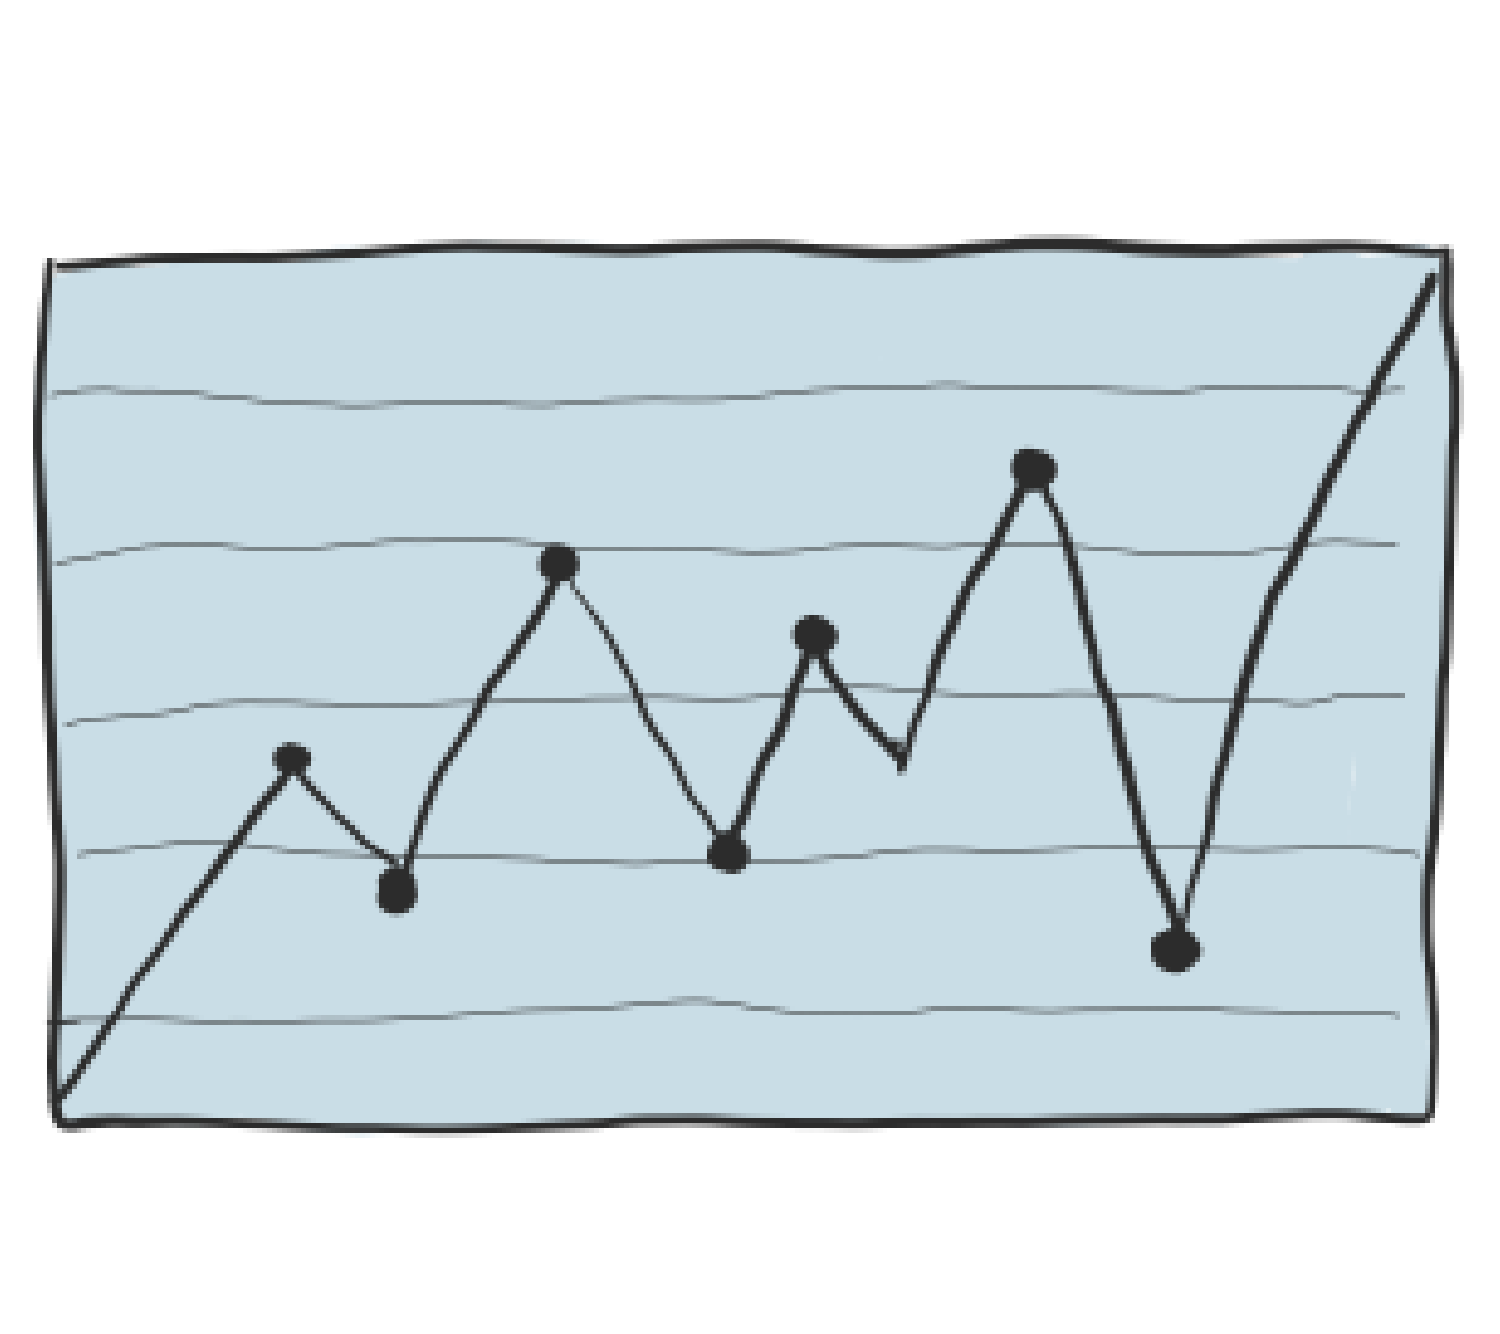
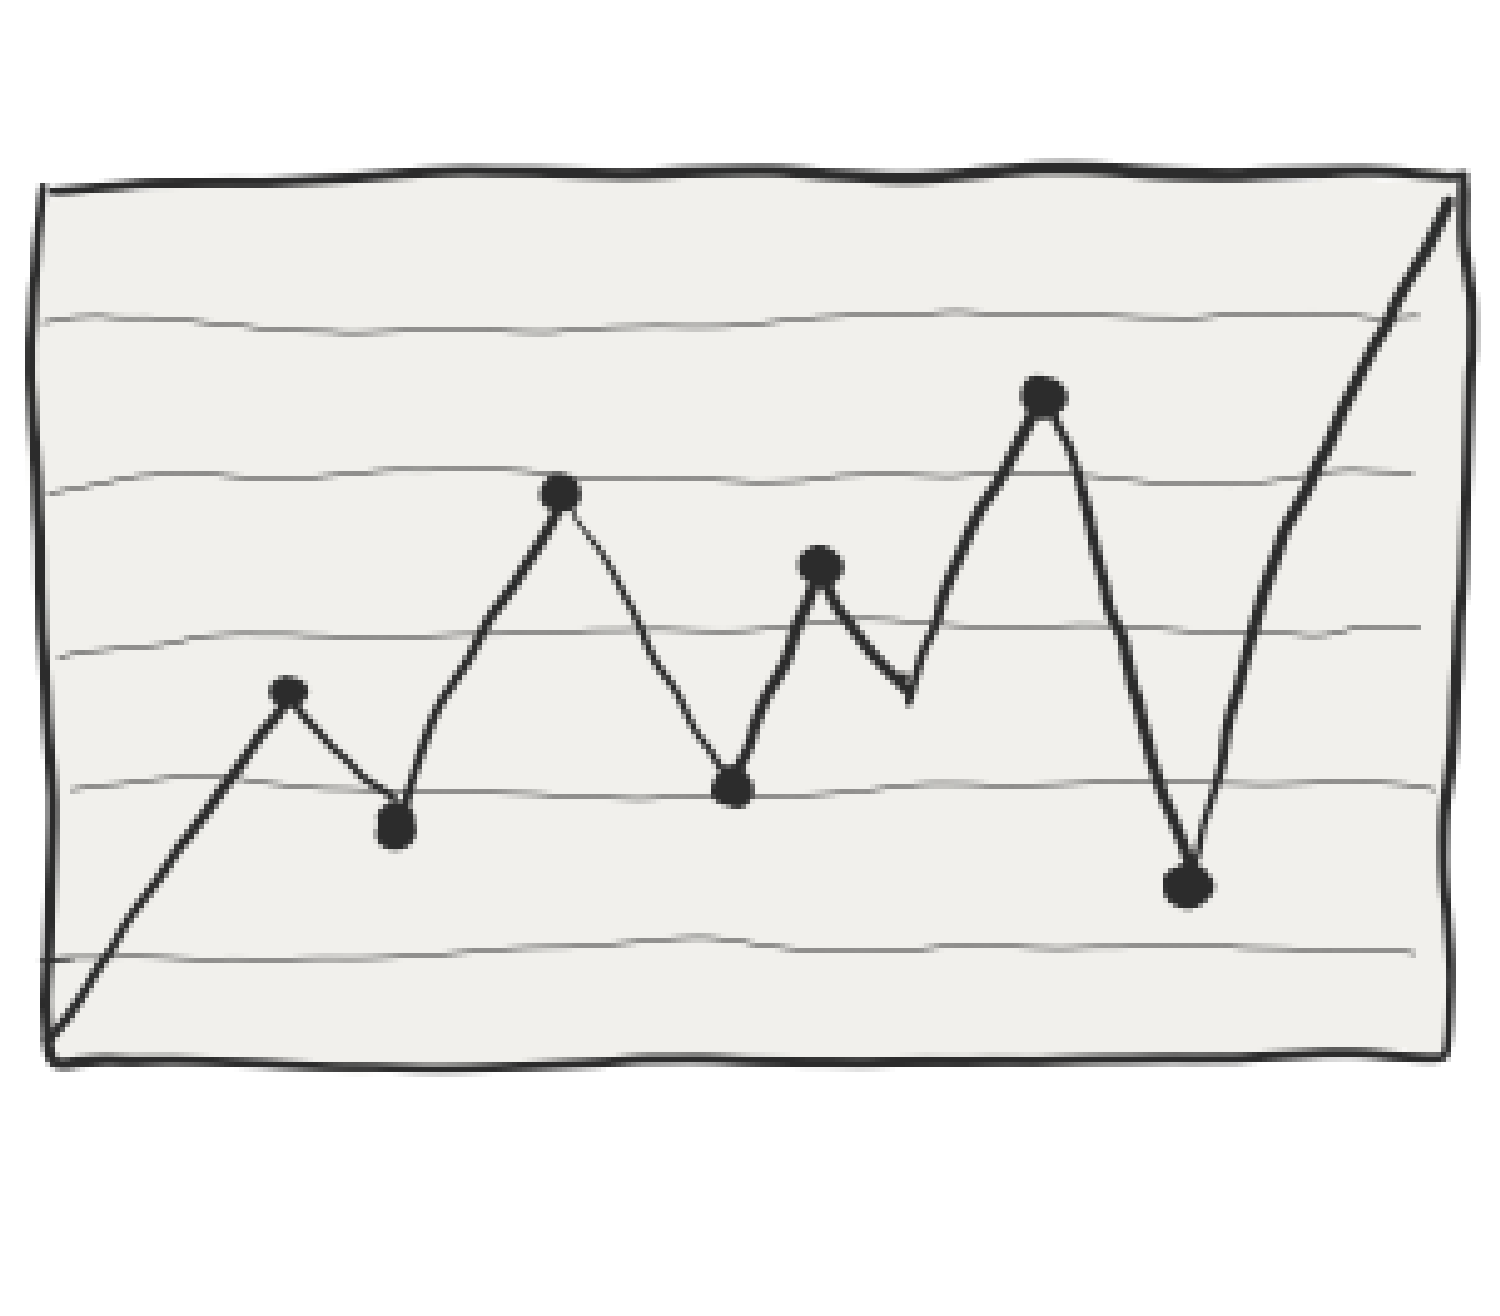
sources to all pics

diff --git a/css/css/page__7.css b/css/css/page__7.css
@@ -38,11 +38,11 @@
     left: -20vw; } }
 @media screen and (min-width: 319px) {
   .proposal-img__fixed {
-    width: 90vw;
+    width: 80vw;
     position: absolute;
     transition: opacity .5s ease-in-out;
     pointer-events: none;
-    top: 0vh; } }
+    top: -5vh; } }
 @media screen and (min-width: 480px) {
   .proposal-img__fixed {
     width: 72vh;
@@ -53,9 +53,9 @@
     top: -10vh; } }
 @media screen and (min-width: 980px) {
   .proposal-img__fixed {
-    width: 75vh;
+    width: 50vh;
     top: -5vh;
-    left: 5vw; } }
+    left: 10vw; } }
 @media screen and (min-width: 1300px) {
   .proposal-img__fixed {
     width: 40vh;
@@ -156,14 +156,14 @@
   .social-source__fixed {
     position: absolute;
     top: 63vh;
-    left: 0vw;
+    left: -5vw;
     min-width: 300px;
     font-family: 'Neucha';
     text-decoration: underline;
     font-size: 16px; }
 
   .social-source__fixed {
-    top: 55vh; } }
+    top: 45vh; } }
 @media screen and (min-width: 480px) {
   .work_process-y__fixed {
     position: absolute;
@@ -212,8 +212,8 @@
     left: 25vw; }
 
   .process-source__fixed {
-    top: 51vh;
-    left: -2vw; }
+    top: 55vh;
+    left: 8vw; }
 
   .calendar-source__fixed {
     top: 51vh;
@@ -227,7 +227,7 @@
 
   .budget-source__fixed {
     top: 42vh;
-    left: -30vw;
+    left: -20vw;
     width: 500px; } }
 @media screen and (min-width: 1300px) {
   .work_process-text__fixed {

diff --git a/index.html b/index.html
@@ -119,6 +119,7 @@
                     <p class="process-source__fixed">Source: A half-baked estimate, (2019)</p>
                 </div>
                 <div class="rain_cloud__fixed page__5">
+                    <p class="motivation-label__fixed">Global warming and temperature</p>
                     <img class="raindrop__fixed rain1"
                     src='css/img/raindrop.png'
                     />
@@ -149,11 +150,14 @@
                     <div class="slidecontainer">
                         <input type="range" min="1" max="100" value="50" class="slider" id="myRange">
                     </div>
+                    <p class="motivation-source__fixed">Source: Literally almost every scientist in the world (1980)</p>
                 </div>
                 <div class="timeline__fixed page__6">
+                    <p class="schedule-x__fixed">Approximately 65% of the world are visual learners</p>
                     <img class="proposal-img__fixed"
                     src='css/img/graph.png'
                     />
+                    <p class="proposal-source__fixed">Source: Mind Tools, 1998</p>
                 </div>
                 <div class="timeline__fixed page__7" style="position: relative;">
                     <img class="timeline-img__fixed" src='css/img/calendar.png'/>

diff --git a/css/sass/page__7.scss b/css/sass/page__7.scss
@@ -48,11 +48,11 @@
 
 @media screen and (min-width: $mobile) {
     .proposal-img__fixed {
-        width: 90vw;
+        width: 80vw;
         position: absolute;
         transition: opacity .5s ease-in-out;
         pointer-events: none;
-        top: 0vh;
+        top: -5vh;
     }
 }
 
@@ -72,9 +72,9 @@
 
 @media screen and (min-width: $desktop) {
     .proposal-img__fixed {
-        width: 75vh;
+        width: 50vh;
         top: -5vh;
-        left: 5vw;
+        left: 10vw;
     }
 }
 
@@ -203,7 +203,7 @@
         .social-source__fixed {
             position: absolute;
             top: 63vh;
-            left: 0vw;
+            left: -5vw;
             min-width: 300px;
             font-family: 'Neucha';
             text-decoration: underline;
@@ -211,7 +211,7 @@
         }
 
         .social-source__fixed {
-            top: 55vh;
+            top: 45vh;
         }
     }
 
@@ -278,8 +278,8 @@
         }
 
         .process-source__fixed {
-            top: 51vh;
-            left: -2vw;
+            top: 55vh;
+            left: 8vw;
         }
 
         .calendar-source__fixed {
@@ -296,7 +296,7 @@
 
         .budget-source__fixed {
             top: 42vh;
-            left: -30vw;
+            left: -20vw;
             width: 500px;
         }
     }

diff --git a/css/css/page__2.css b/css/css/page__2.css
@@ -140,6 +140,24 @@
     min-width: 300px;
     font-family: 'Neucha';
     text-decoration: underline;
+    font-size: 16px; }
+
+  .motivation-source__fixed {
+    position: absolute;
+    top: 44vh;
+    left: -5vw;
+    min-width: 300px;
+    font-family: 'Neucha';
+    text-decoration: underline;
+    font-size: 16px; }
+
+  .proposal-source__fixed {
+    position: absolute;
+    top: 50vh;
+    left: -5vw;
+    min-width: 300px;
+    font-family: 'Neucha';
+    text-decoration: underline;
     font-size: 16px; } }
 @media screen and (min-width: 480px) {
   .experience__fixed {
@@ -175,13 +193,24 @@
     font-size: 22px; }
 
   .experience-x__fixed {
-    left: -10vw;
+    left: -5vw;
     top: -20vh;
-    font-size: 28px; }
+    font-size: 28px;
+    text-align: center; }
 
   .experience-source__fixed {
-    left: -10vw;
-    top: 45vh; } }
+    left: -8vw;
+    top: 45vh; }
+
+  .motivation-source__fixed {
+    left: 0vw;
+    top: 45vh;
+    min-width: 500px; }
+
+  .proposal-source__fixed {
+    left: 18vw;
+    top: 50vh;
+    min-width: 500px; } }
 @media screen and (min-width: 1300px) {
   .experience__fixed {
     width: 20vw;

diff --git a/css/sass/page__2.scss b/css/sass/page__2.scss
@@ -162,6 +162,26 @@
         text-decoration: underline;
         font-size: 16px;
     }
+
+    .motivation-source__fixed {
+        position: absolute;
+        top: 44vh;
+        left: -5vw;
+        min-width: 300px;
+        font-family: 'Neucha';
+        text-decoration: underline;
+        font-size: 16px;
+    }
+
+    .proposal-source__fixed {
+        position: absolute;
+        top: 50vh;
+        left: -5vw;
+        min-width: 300px;
+        font-family: 'Neucha';
+        text-decoration: underline;
+        font-size: 16px;
+    }
 }
 
 @media screen and (min-width: $mobileLandscape) {
@@ -206,14 +226,27 @@
     }
 
     .experience-x__fixed {
-        left: -10vw;
+        left: -5vw;
         top: -20vh;
         font-size: 28px;
+        text-align: center;
     }
 
     .experience-source__fixed {
-        left: -10vw;
+        left: -8vw;
         top: 45vh;
+    }
+
+    .motivation-source__fixed {
+        left: 0vw;
+        top: 45vh;
+        min-width: 500px;
+    }
+
+    .proposal-source__fixed {
+        left: 18vw;
+        top: 50vh;
+        min-width: 500px;
     }
 }
 

diff --git a/css/sass/page__4.scss b/css/sass/page__4.scss
@@ -33,6 +33,16 @@
         font-size: 30px;
     }
 
+    .motivation-label__fixed {
+        position: absolute;
+        top: -25vh;
+        left: 1vw;
+        min-width: 300px;
+        font-family: 'Neucha';
+        text-decoration: underline;
+        font-size: 30px;
+    }
+
     .schedule-x__fixed {
         position: absolute;
         top: -25vh;
@@ -95,8 +105,14 @@
 
     .social-label__fixed {
         top: -10vh;
-        left: 0vw;
+        left: 3vw;
         min-width: 300px;
+    }
+
+    .motivation-label__fixed {
+        top: -20vh;
+        left: -2vw;
+        min-width: 500px;
     }
 
     .schedule-x__fixed {

diff --git a/css/css/page__4.css b/css/css/page__4.css
@@ -34,6 +34,15 @@
     text-decoration: underline;
     font-size: 30px; }
 
+  .motivation-label__fixed {
+    position: absolute;
+    top: -25vh;
+    left: 1vw;
+    min-width: 300px;
+    font-family: 'Neucha';
+    text-decoration: underline;
+    font-size: 30px; }
+
   .schedule-x__fixed {
     position: absolute;
     top: -25vh;
@@ -80,8 +89,13 @@
 
   .social-label__fixed {
     top: -10vh;
-    left: 0vw;
+    left: 3vw;
     min-width: 300px; }
+
+  .motivation-label__fixed {
+    top: -20vh;
+    left: -2vw;
+    min-width: 500px; }
 
   .schedule-x__fixed {
     top: -20vh;

diff --git a/css/css/page__5.css b/css/css/page__5.css
@@ -106,7 +106,7 @@
     left: 5vh; } }
 @media screen and (min-width: 740px) {
   .slidecontainer {
-    top: -10vh; } }
+    top: -5vh; } }
 @media screen and (min-width: 1300px) {
   .slidecontainer {
     top: -10vh;

diff --git a/css/sass/page__8.scss b/css/sass/page__8.scss
@@ -100,7 +100,7 @@
     .budget-x__fixed {
         position: absolute;
         top: -15vh;
-        left: -30vw;
+        left: -20vw;
         min-width: 300px;
     }
 

diff --git a/css/css/page__8.css b/css/css/page__8.css
@@ -85,7 +85,7 @@
   .budget-x__fixed {
     position: absolute;
     top: -15vh;
-    left: -30vw;
+    left: -20vw;
     min-width: 300px; }
 
   .timeline-x__fixed {

diff --git a/css/sass/page__5.scss b/css/sass/page__5.scss
@@ -130,7 +130,7 @@
 
 @media screen and (min-width: $tablet) {
     .slidecontainer {
-        top: -10vh;
+        top: -5vh;
     }
 }
 
